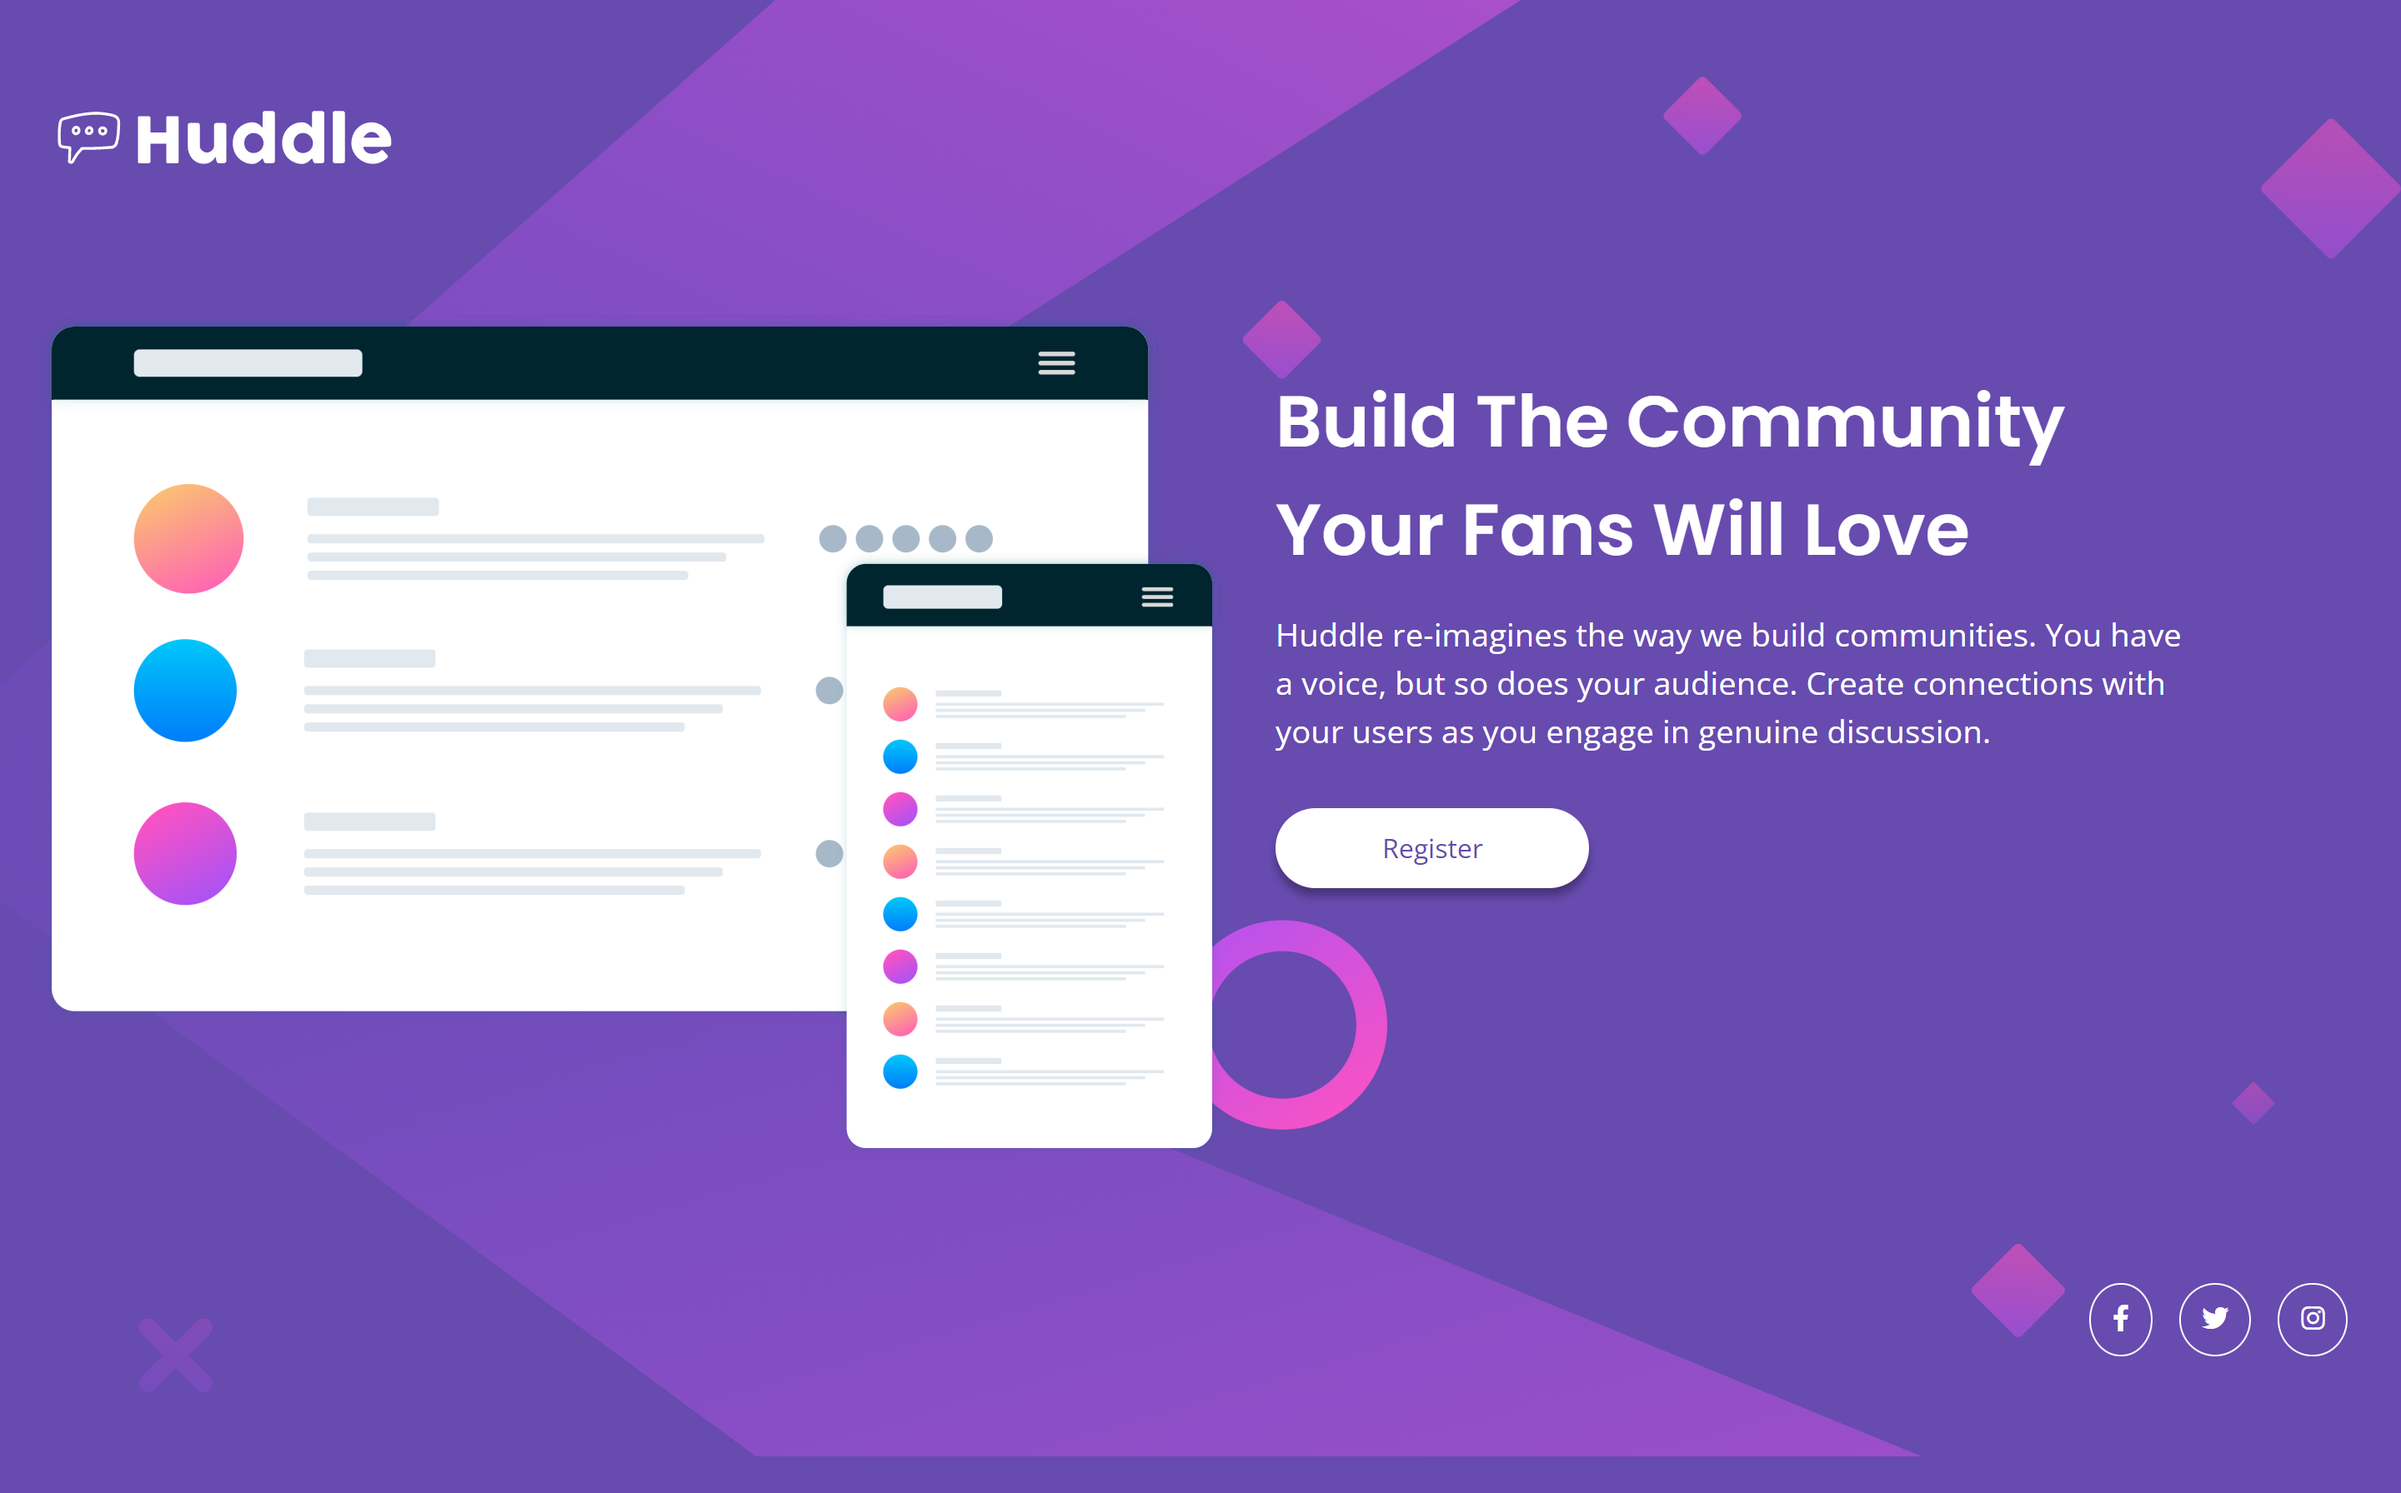
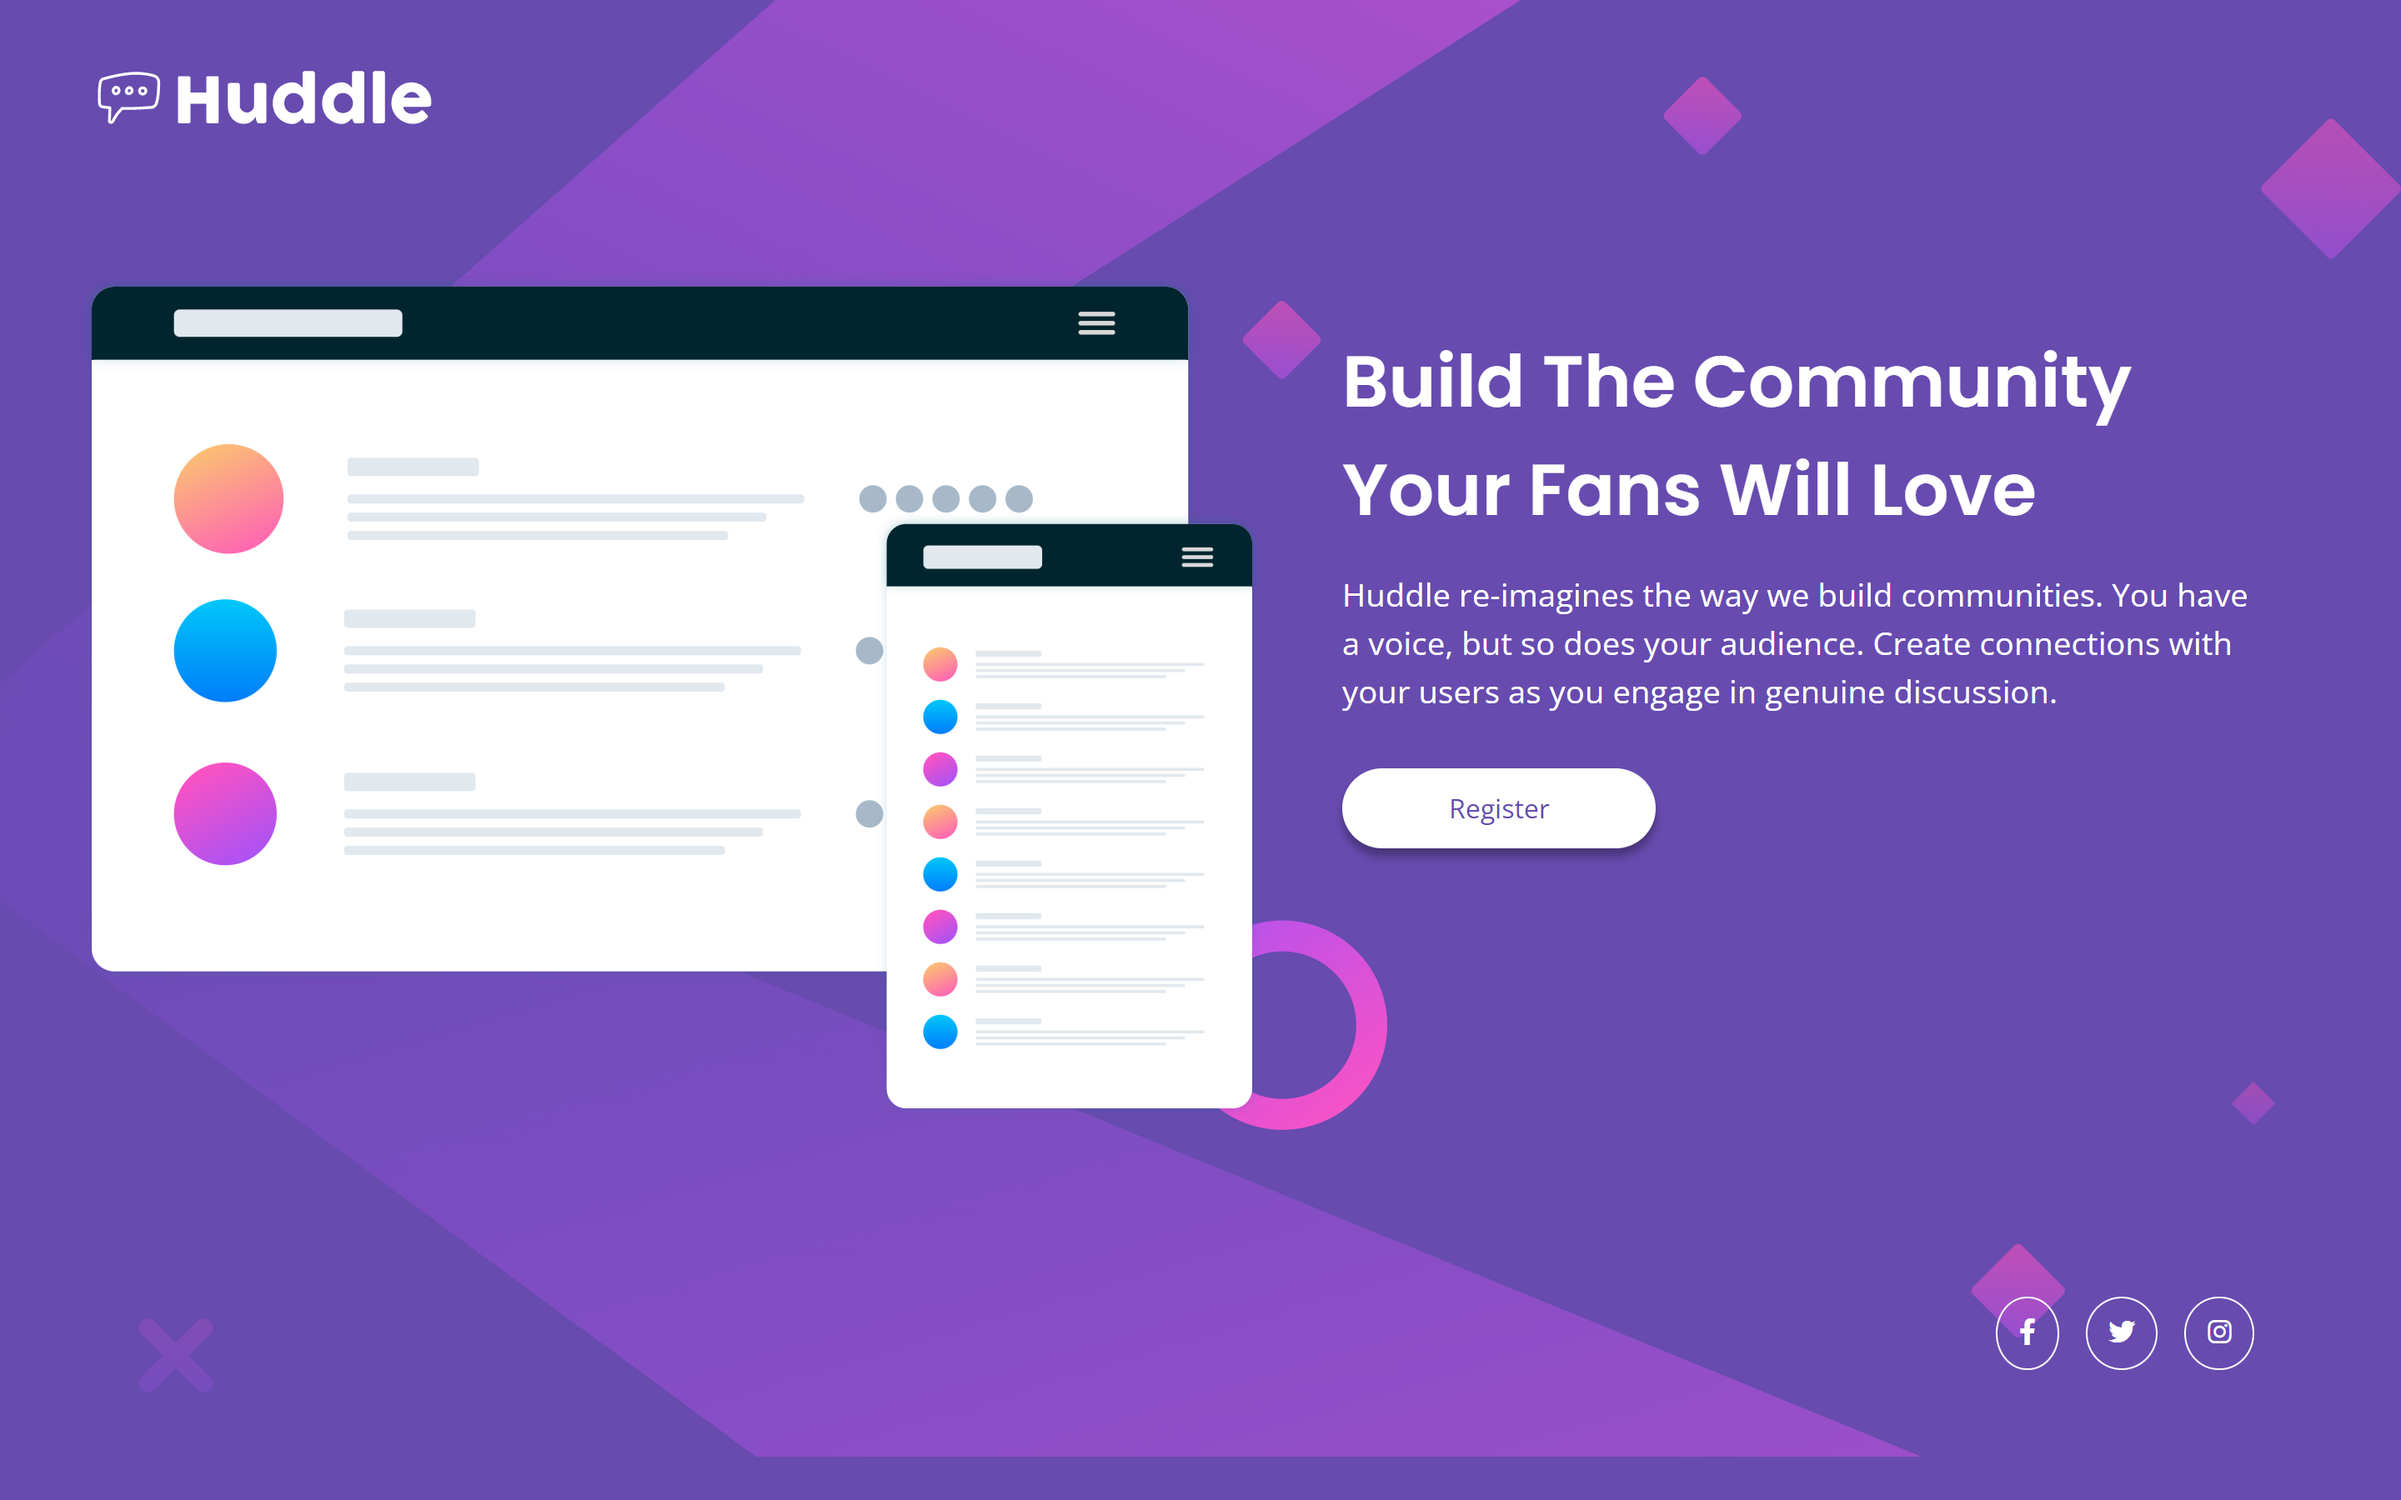
Fixing responsive

diff --git a/styles/media-queries.css b/styles/media-queries.css
@@ -6,8 +6,6 @@
 @media screen and (min-width: 768px) {
 	body {
 		background-image: url(../images/bg-desktop.svg);
-		background-repeat: no-repeat;
-		background-size: contain;
 		max-width: 1440px;
 		margin: 0 auto;
 	}
@@ -22,7 +20,7 @@
 	}
 	.info {
 		align-items: flex-start;
-		padding-left: 2rem ;
+		padding-left: 3rem;
 		margin-top: 0;
 	}
 	.info_title {
@@ -38,6 +36,7 @@
 	}
 	.footer {
 		justify-content: flex-end;	
+		padding: 2rem;
 	}
 	.social-links_icon:hover {
 		color: var(--btn-hover);
@@ -45,8 +44,8 @@
 	}
 }
 @media screen and (min-width: 1024px) {
-	.header {
-		padding-top: 2rem;
+	body {
+		padding: 2rem 3rem;
 	}
 	.main {
 		align-items: flex-start;

diff --git a/styles/styles.css b/styles/styles.css
@@ -28,7 +28,6 @@ body {
 	background-repeat: no-repeat;
 	background-size: contain;
 	background-color: var(--bg-body);
-	min-height: 100vh;
 	padding: 1.5rem;
 }
 
@@ -74,7 +73,7 @@ img {
 	text-align: center;
 }
 .info_text {
-	width: min(550px, 90%);
+	width: min(600px, 95%);
 	font-family: var(--font-text);
 	font-size: clamp(1rem, 2vw, 1.2rem);
 	font-weight: 400;
@@ -105,7 +104,7 @@ img {
 .footer {
 	display: flex;
 	justify-content: center;
-	margin-top: 8rem;
+	margin-top: 5rem;
 }
 .social-links {
 	display: flex;
